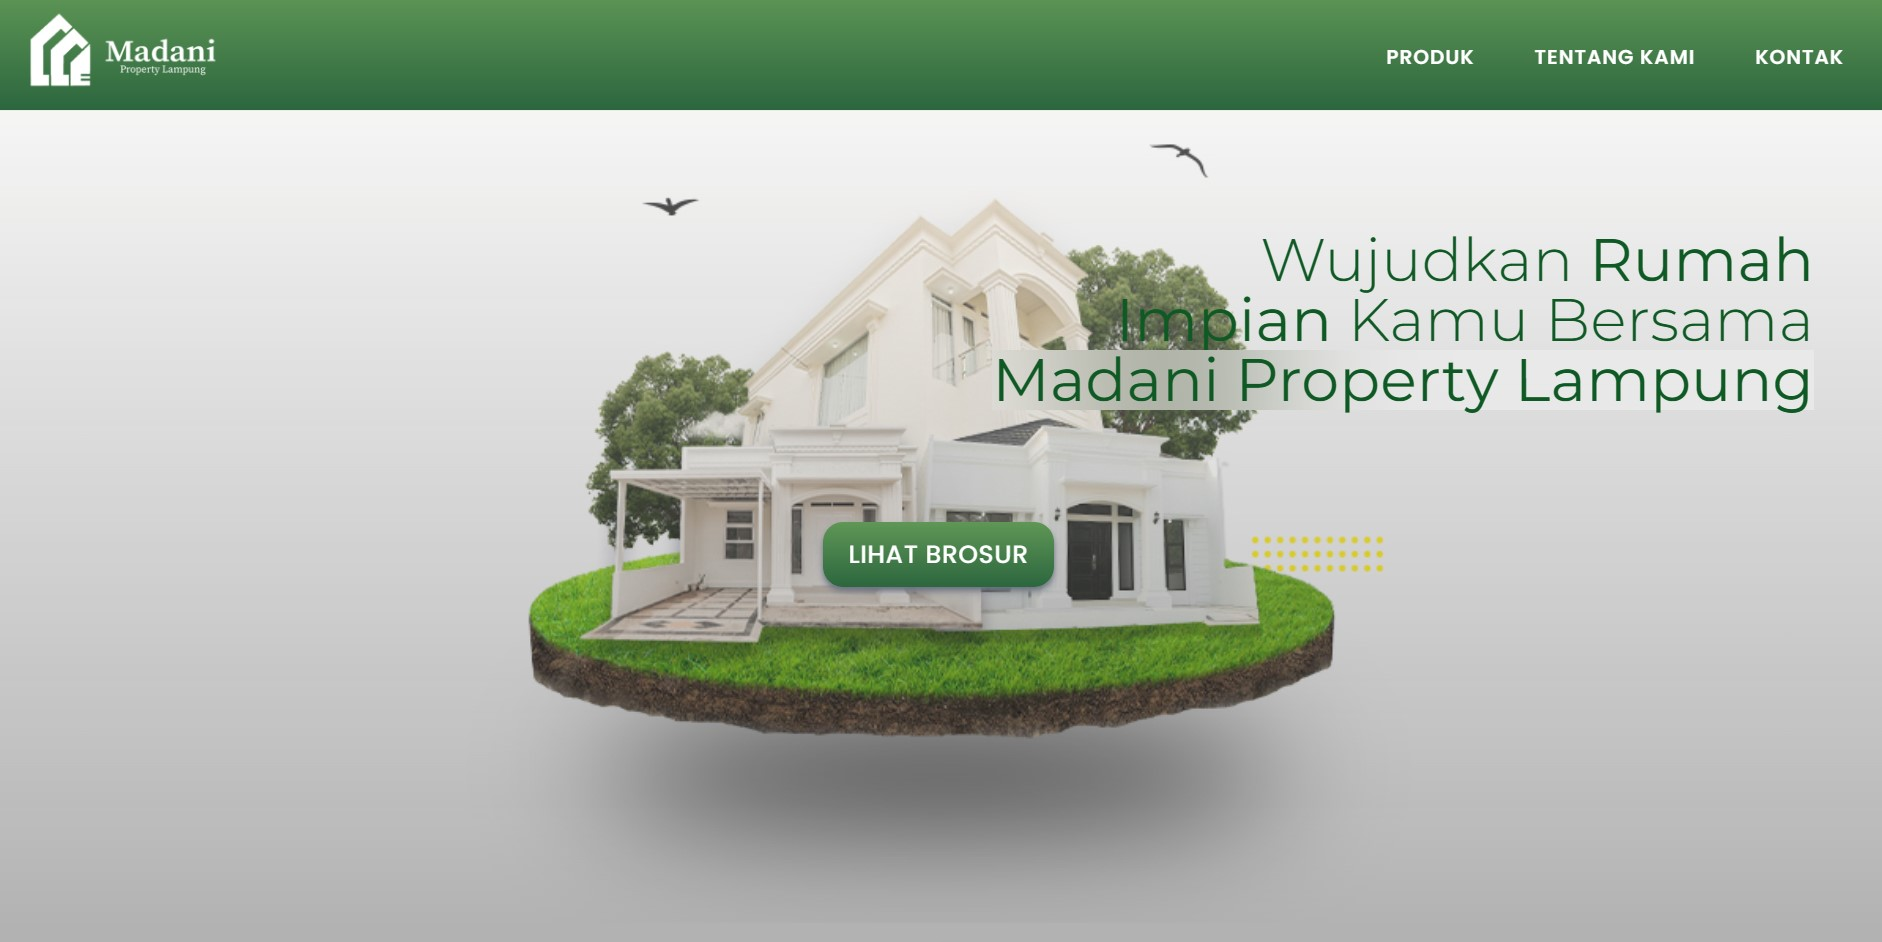
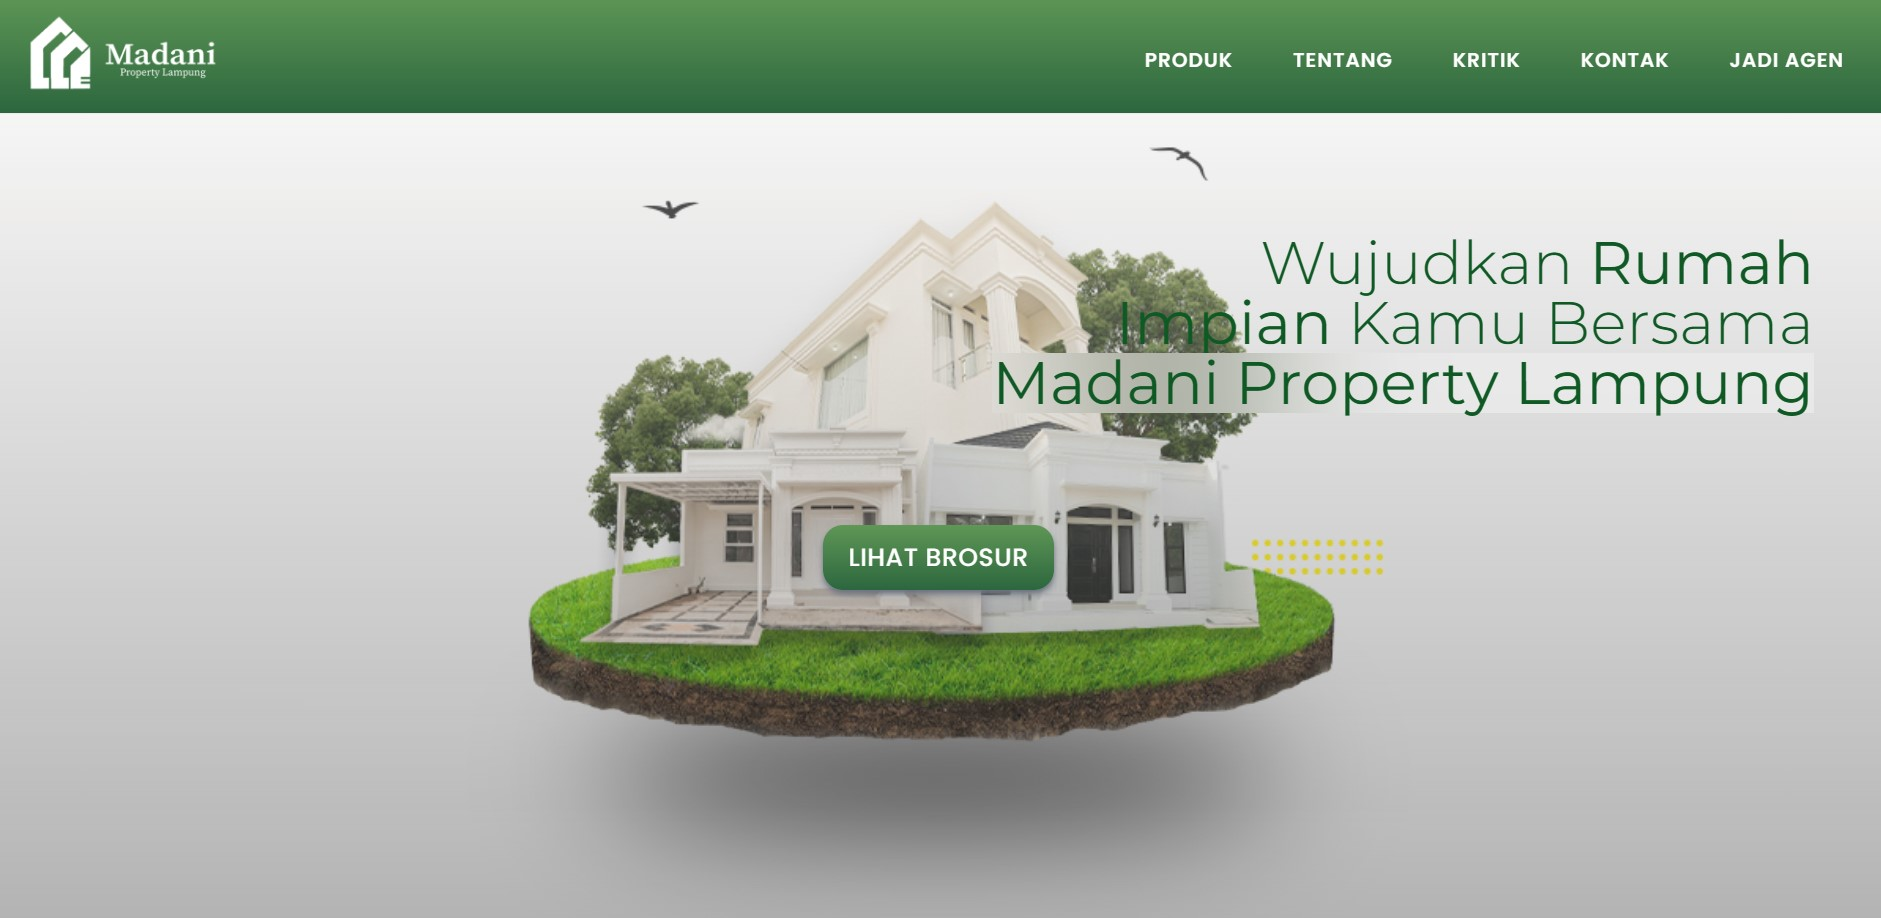
feat: jadi agen

diff --git a/components/Header.vue b/components/Header.vue
@@ -20,12 +20,12 @@ const NAV_MENU = [
     to: '/#kritik',
   },
   {
-    name: 'Agen',
-    to: '/agen',
-  },
-  {
     name: 'Kontak',
     to: '/contact',
+  },
+  {
+    name: 'Jadi Agen',
+    to: 'https://api.whatsapp.com/send/?phone=628877092525&text=Assalamualaikum kak, saya mau jadi agen Madani Property',
   },
 ]
 
